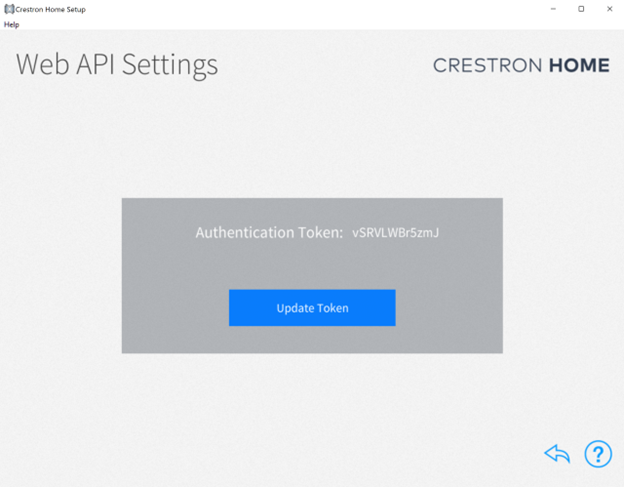
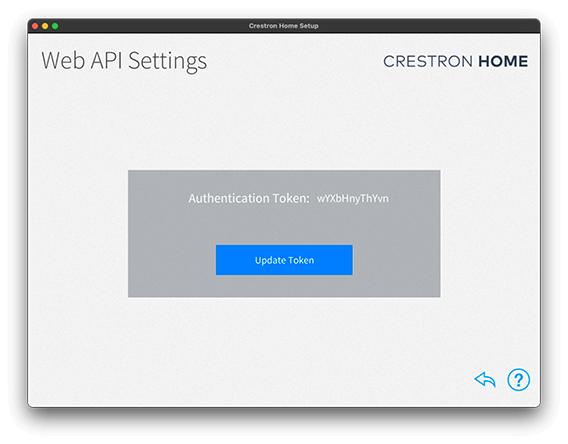
Update README

Changed region(s): [[0.0, 0.0, 0.9877, 0.9662], [0.1796, 0.3806, 0.8081, 0.732], [0.2993, 0.4392, 0.7183, 0.4977]]

diff --git a/README.md b/README.md
@@ -8,7 +8,7 @@ This repository contains a custom component for Home Assistant that integrates w
 
 ## Overview
 
-The integration communicates with the Crestron Home CWS (Crestron Web Service) server via HTTP to discover and control devices in your Crestron Home system.
+The integration communicates with the Crestron Home CWS (Crestron Web Service) server via HTTPS to discover and control devices in your Crestron Home system.
 
 ## Features
 
@@ -62,14 +62,15 @@ The integration communicates with the Crestron Home CWS (Crestron Web Service) s
 ![Crestron Home Integration](https://raw.githubusercontent.com/ruudruud/ha-crestron-home/main/images/web-api-settings.png)
 
 1. Open the Crestron Home Setup app
-2. Go to Settings > System Settings > Web API
-3. Enable the Web API
-4. Generate a new API token
-5. Copy the token for use in the integration setup
+2. Go to Settings (called Installer Settings)
+3. Tap System Control Options
+4. Tap Web API Settings
+5. Enable the Web API and generate a new API token
+6. Copy the token for use in the integration setup
 
 ### Setting up the Integration
 
-1. Go to Home Assistant > Settings > Devices & Services
+1. Go to Home Assistant > Settings > Devices & services
 2. Click "Add Integration"
 3. Search for "Crestron Home"
 4. Enter the following information:
@@ -84,13 +85,14 @@ The integration communicates with the Crestron Home CWS (Crestron Web Service) s
      - Scenes: All scenes defined in your Crestron Home system
      - Binary Sensors: Occupancy sensors and door sensors
      - Sensors: Photosensors and other measurement devices
+   - **Ignored Device Names** (optional): Device name patterns to exclude
+     - Use `%` as wildcard (e.g., `%bathroom%` ignores all devices with "bathroom" in the name)
 5. Click "Submit"
 6. Please allow for some time for the device synchronization.
 
 ## Requirements
 
 - **Home Assistant Core**: Version 2024.2 or newer
-- **Python**: Version 3.11 or newer
 - **Dependencies**: aiohttp 3.8.0 or newer (for API communication)
 - **Hardware Requirements**:
   - A Crestron Home system with CWS (Crestron Web Service) enabled
@@ -108,35 +110,28 @@ This integration:
 - Includes an abstraction layer that maintains a consistent snapshot of all devices
 - Handles device state normalization and visibility logic
 
-### Abstraction Layer
+### How It Works
 
-The integration includes an intermediate abstraction layer that sits between the Crestron Home API and Home Assistant. This layer:
-
-- Polls devices at a fixed interval configured by the user
-- Maintains a consistent snapshot of all devices in the system
-- Normalizes device states across different device types
-- Handles visibility and enabled logic for Home Assistant
-- Provides a clean interface for debugging and troubleshooting
+The integration polls your Crestron Home system at the configured interval to keep device states in sync. Between polls, it maintains a local snapshot of all devices so that Home Assistant always has up-to-date state information. Devices marked as hidden in the configuration are automatically hidden in Home Assistant as well.
 
 ### Debug Script
 
-The integration includes a debug script (`crestron_debug.py`) that can be used to test the abstraction layer and view the device snapshot. This is useful for troubleshooting issues with the integration.
-
-To use the debug script:
+The integration includes a standalone debug script (`crestron_debug.py`) that connects directly to your Crestron Home system and displays device information in formatted tables. This is useful for troubleshooting without involving Home Assistant.
 
 ```bash
-python3 crestron_debug.py --host <crestron_host> --token <api_token> [--types light,shade,scene] [--ignore pattern1,pattern2] [--output snapshot.json] [--verbose]
+python3 crestron_debug.py --host <crestron_host> --token <api_token>
 ```
 
 Options:
-- `--host`: The IP address or hostname of your Crestron Home processor (required)
-- `--token`: The API token for your Crestron Home system (required)
-- `--types`: Comma-separated list of device types to include (default: all types)
-- `--ignore`: Comma-separated list of device name patterns to ignore
-- `--output`: Output file for the device snapshot (default: crestron_snapshot.json)
-- `--verbose`: Enable verbose logging
+- `--host`: IP address or hostname of the Crestron Home system
+- `--token`: API token for authentication
+- `--room`: Filter devices by room name
+- `--sort`: Sort by `name`, `room`, `status`, or `level` (default: `room`)
+- `--lights`: Show only lights (dimmers and switches)
+- `--sensors`: Show only sensors (occupancy, door, photo)
+- `--raw`: Show raw API data instead of formatted tables
 
-The script will connect to your Crestron Home system, poll all devices, and save a snapshot of the device state to a JSON file. This can be useful for debugging issues with the integration.
+Host and token can also be set via a `.env` file to avoid passing them on every run.
 
 ## Troubleshooting
 
@@ -151,7 +146,7 @@ The script will connect to your Crestron Home system, poll all devices, and save
 
 - Make sure the device types you want to control are selected in the integration configuration
 - Verify that the devices are properly configured in your Crestron Home system
-- Try increasing the update interval to ensure all devices are discovered
+- Try reloading the integration to re-discover devices
 
 ### Device Type Configuration
 
@@ -170,6 +165,10 @@ Contributions are welcome! Please see the [Contributing Guidelines](CONTRIBUTING
 ## License
 
 This project is licensed under the MIT License - see the [LICENSE](LICENSE) file for details.
+
+## API Documentation
+
+Detailed Crestron Home REST API documentation is available in the [docs](docs/) directory.
 
 ## Changelog
 
